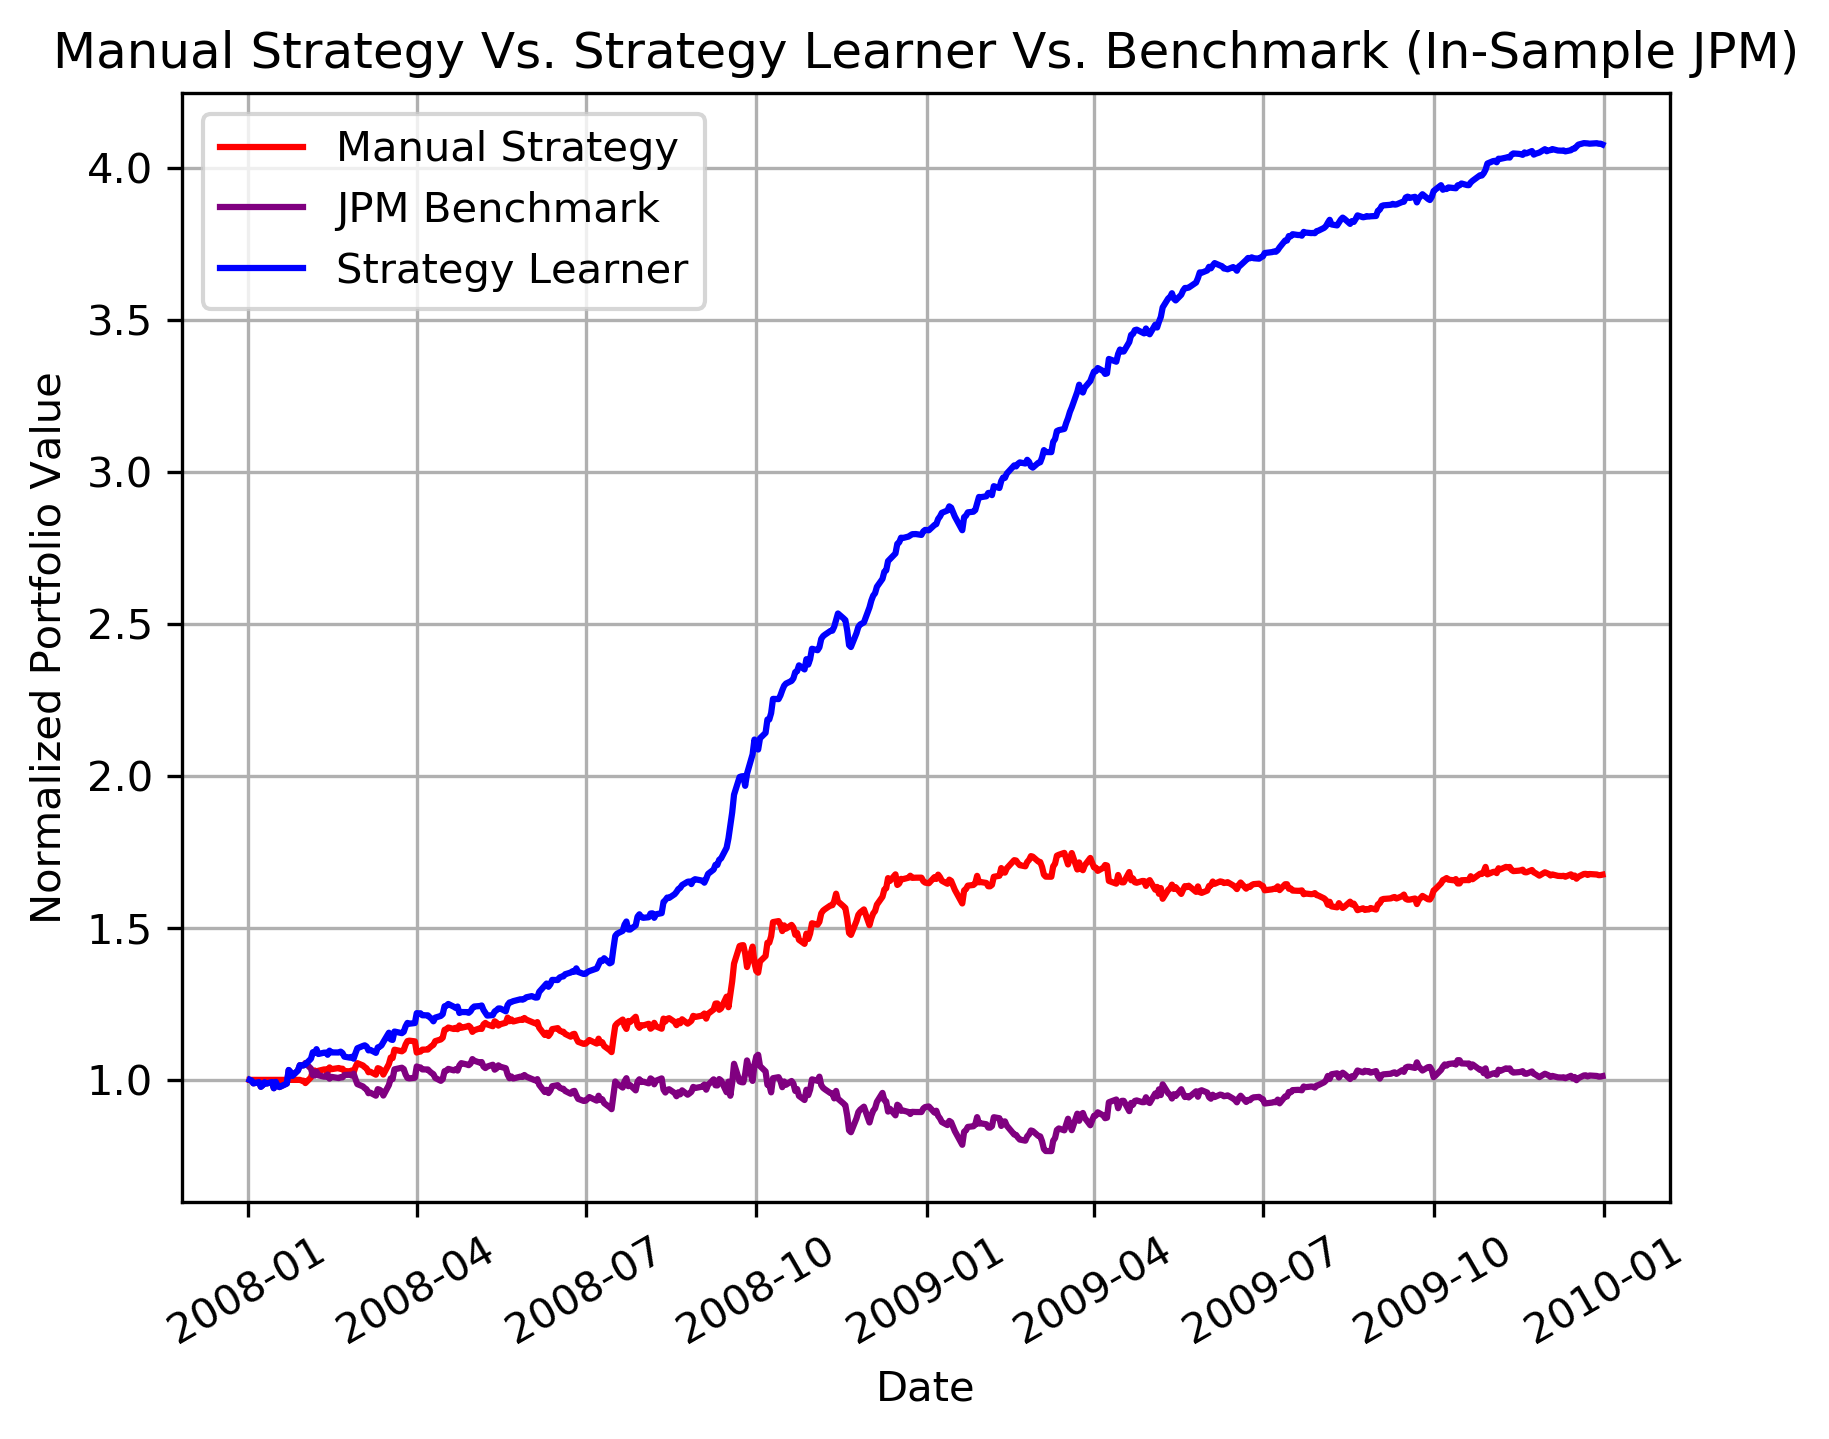
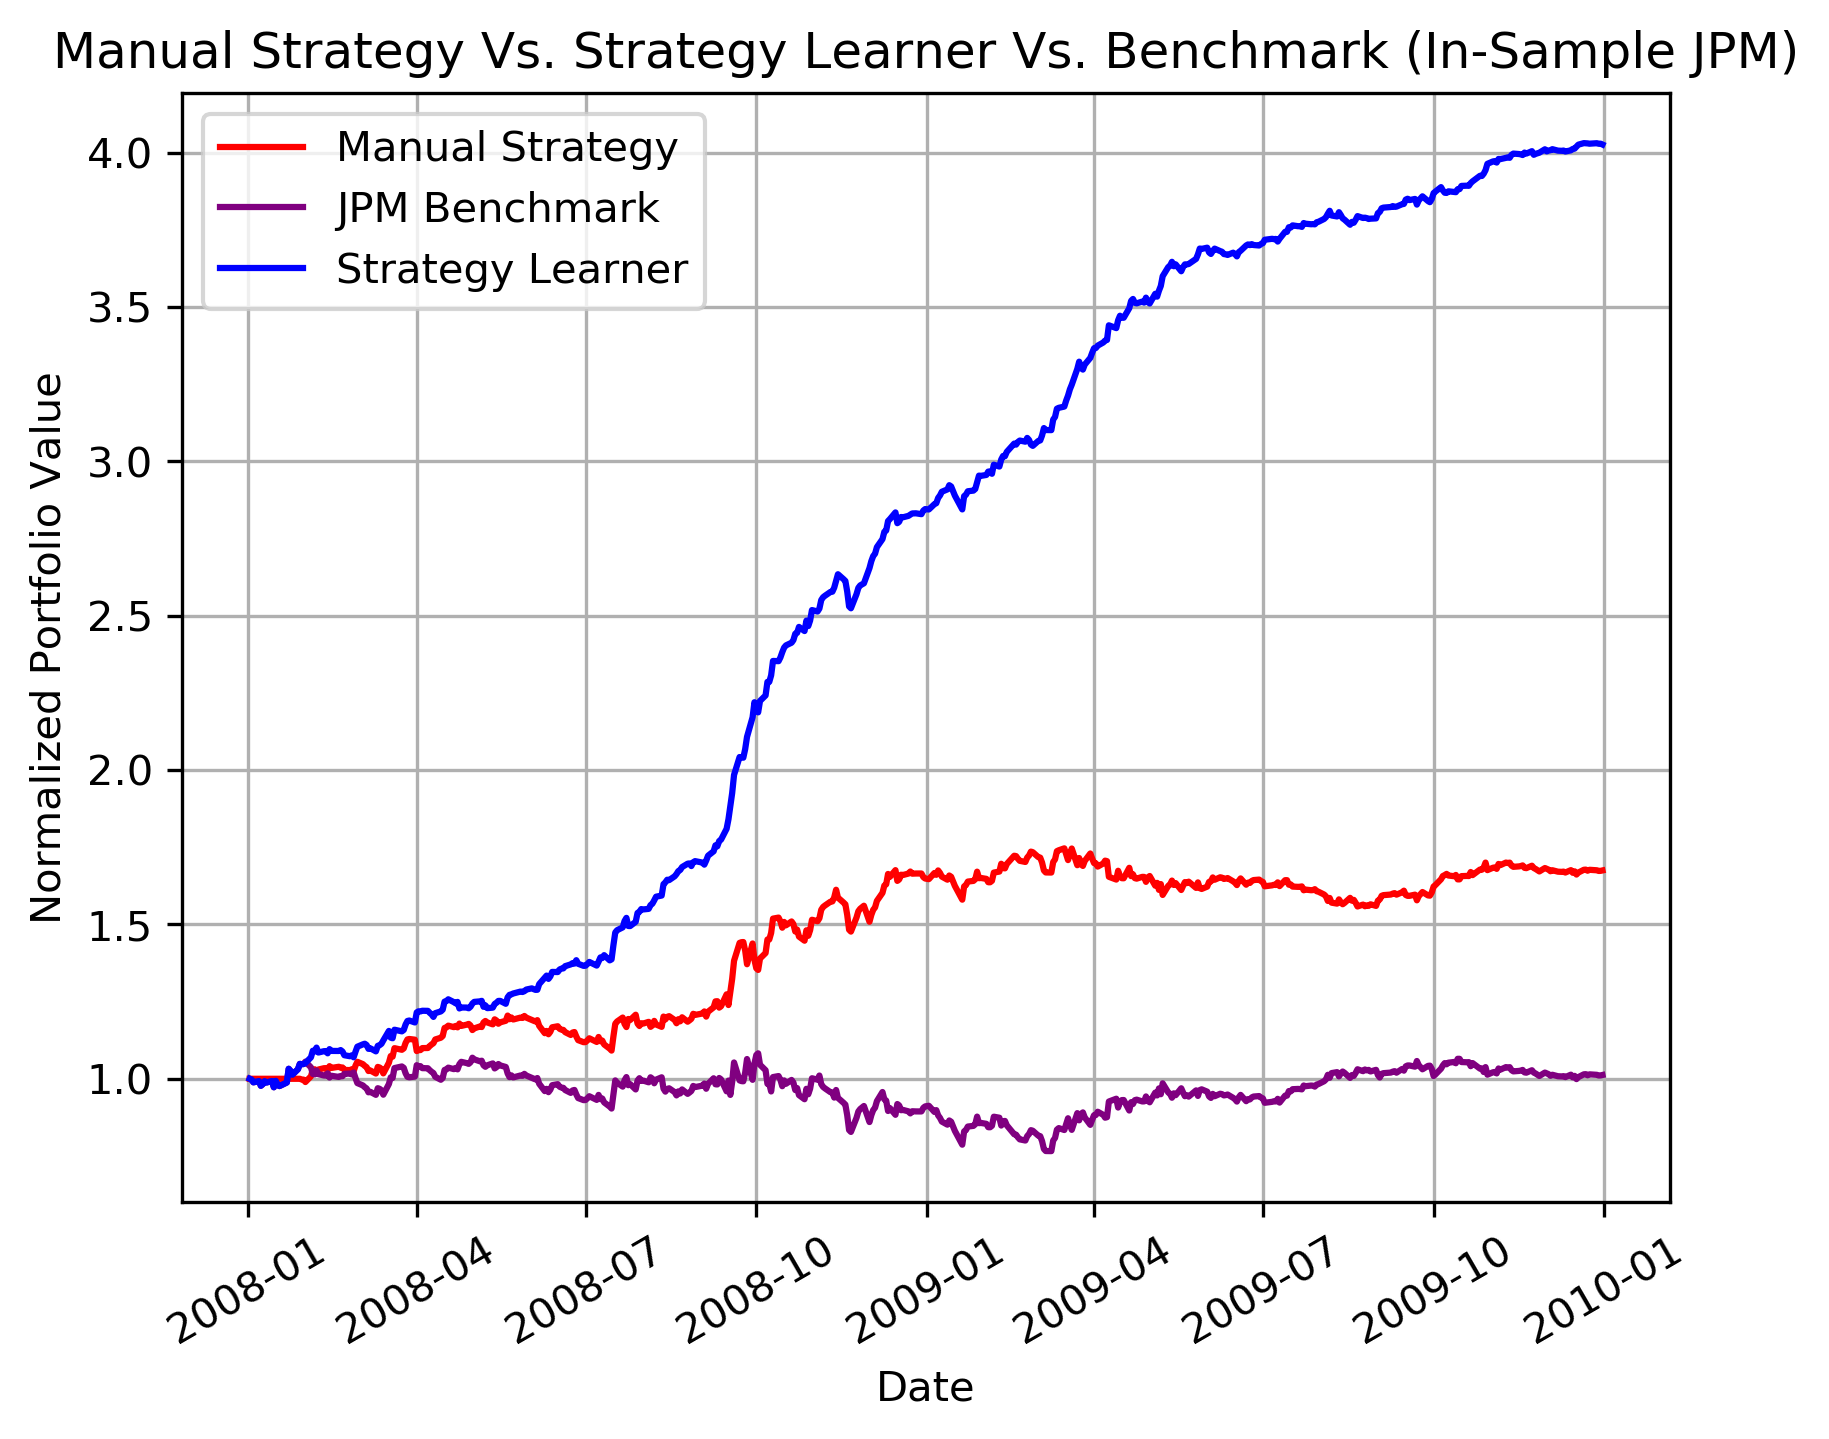
experiment2.py clean-up part 1

diff --git a/strategy_evaluation/experiment2.py b/strategy_evaluation/experiment2.py
@@ -1,22 +1,40 @@
+"""
+Student Name: Vaishnavi Sanjeev
+GT User ID: vsanjeev6
+GT ID: 903797718
+
+Code implementing Experiment 2
+"""
+
 import datetime as dt
 import pandas as pd
+import numpy as np
 from StrategyLearner import StrategyLearner
 import marketsimcode as ms
 import matplotlib.pyplot as plt
+
+"""
+Register datetime converter
+To avoid warings: 
+FutureWarning: Using an implicitly registered datetime converter for a matplotlib plotting method. 
+The converter was registered by pandas on import.
+Future versions of pandas will require you to explicitly register matplotlib converters.
+"""
+pd.plotting.register_matplotlib_converters()
 
 def author():
     return 'vsanjeev6'
 
 def test_code():
-    sl = StrategyLearner(verbose = False, impact = 0)
+    sl = StrategyLearner(verbose=False, impact=0.0, commission=0.0)
     sl.add_evidence(symbol='JPM', sd=dt.datetime(2008, 1, 1), ed=dt.datetime(2009, 12, 31), sv=100000)
     df_es1 = sl.testPolicy(symbol='JPM', sd=dt.datetime(2008, 1, 1), ed=dt.datetime(2009, 12, 31))
 
-    sl = StrategyLearner(verbose=False, impact=0.005)
+    sl = StrategyLearner(verbose=False, impact=0.005, commission=0.0)
     sl.add_evidence(symbol='JPM', sd=dt.datetime(2008, 1, 1), ed=dt.datetime(2009, 12, 31), sv=100000)
     df_es2 = sl.testPolicy(symbol='JPM', sd=dt.datetime(2008, 1, 1), ed=dt.datetime(2009, 12, 31))
 
-    sl = StrategyLearner(verbose=False, impact=0.01)
+    sl = StrategyLearner(verbose=False, impact=0.1, commission=0.0)
     sl.add_evidence(symbol='JPM', sd=dt.datetime(2008, 1, 1), ed=dt.datetime(2009, 12, 31), sv=100000)
     df_es3 = sl.testPolicy(symbol='JPM', sd=dt.datetime(2008, 1, 1), ed=dt.datetime(2009, 12, 31))
 
@@ -28,17 +46,53 @@ def test_code():
     es2 /= es2.values[0]
     es3 /= es3.values[0]
 
-
-    pd.plotting.register_matplotlib_converters()
-    plt.title('How impact affects in-sample results')
-    plt.xticks(rotation=45)
-    plt.plot(es1, label="impact = 0.0", color="red")
-    plt.plot(es2, label="impact = 0.005", color="purple")
-    plt.plot(es3, label="impact = 0.01", color="blue")
+    plt.title('Effect of Impact on In-Sample Trading Behaviour')
+    plt.xticks(rotation=30)
+    plt.plot(es1, label="Impact = 0.0", color="red")
+    plt.plot(es2, label="Impact = 0.005", color="purple")
+    plt.plot(es3, label="Impact = 0.1", color="blue")
+    plt.xlabel("Date")
+    plt.ylabel("Normalized Portfolio Value")
     plt.grid()
     plt.legend()
-    plt.savefig("images/exp2", dpi=300, bbox_inches='tight')
+    plt.savefig("images/Exp2", dpi=300, bbox_inches='tight')
     plt.clf()
+
+def print_stats(portvals, benchmark):
+  benchmark, theoretical = benchmark['value'], portvals['value']
+
+  # Cumulative Return
+  cr_ben = benchmark[-1] / benchmark[0] - 1
+  cr_the = theoretical[-1] / theoretical[0] - 1
+
+  # Daily Return
+  dr_ben = (benchmark / benchmark.shift(1) - 1).iloc[1:]
+  dr_the = (theoretical / theoretical.shift(1) - 1).iloc[1:]
+
+  # Stdev of daily returns
+  sddr_ben = dr_ben.std(ddof=1)
+  sddr_the = dr_the.std(ddof=1)
+
+  # Mean of daily returns
+  adr_ben = dr_ben.mean()
+  adr_the = dr_the.mean()
+
+  # Sharpe Ratio
+  sr_ben = np.sqrt(252) * (adr_ben / sddr_ben)
+  sr_the = np.sqrt(252) * (adr_the / sddr_the)
+
+  print("~~~~~~~~~~Experiment 2~~~~~~~~~~")
+  print("======Manual Strategy======")
+  print("Cumulative Return: " + str(cr_the))
+  print("Stdev of daily returns: " + str(sddr_the))
+  print("Mean of daily returns: " + str(adr_the))
+  print("Sharpe Ratio:" + str(sr_the))
+  print("")
+  print("======Benchmark======")
+  print("Cumulative Return: " + str(cr_ben))
+  print("Stdev of daily returns: " + str(sddr_ben))
+  print("Mean of daily returns: " + str(adr_ben))
+  print("Sharpe Ratio:" + str(sr_ben))
 
 if __name__ == "__main__":
     print("Experiment 2")

diff --git a/strategy_evaluation/ManualStrategy.py b/strategy_evaluation/ManualStrategy.py
@@ -124,8 +124,8 @@ def print_stats(portvals, benchmark):
   dr_the = (theoretical / theoretical.shift(1) - 1).iloc[1:]
 
   # Stdev of daily returns
-  sddr_ben = dr_ben.std()
-  sddr_the = dr_the.std()
+  sddr_ben = dr_ben.std(ddof=1)
+  sddr_the = dr_the.std(ddof=1)
 
   # Mean of daily returns
   adr_ben = dr_ben.mean()
